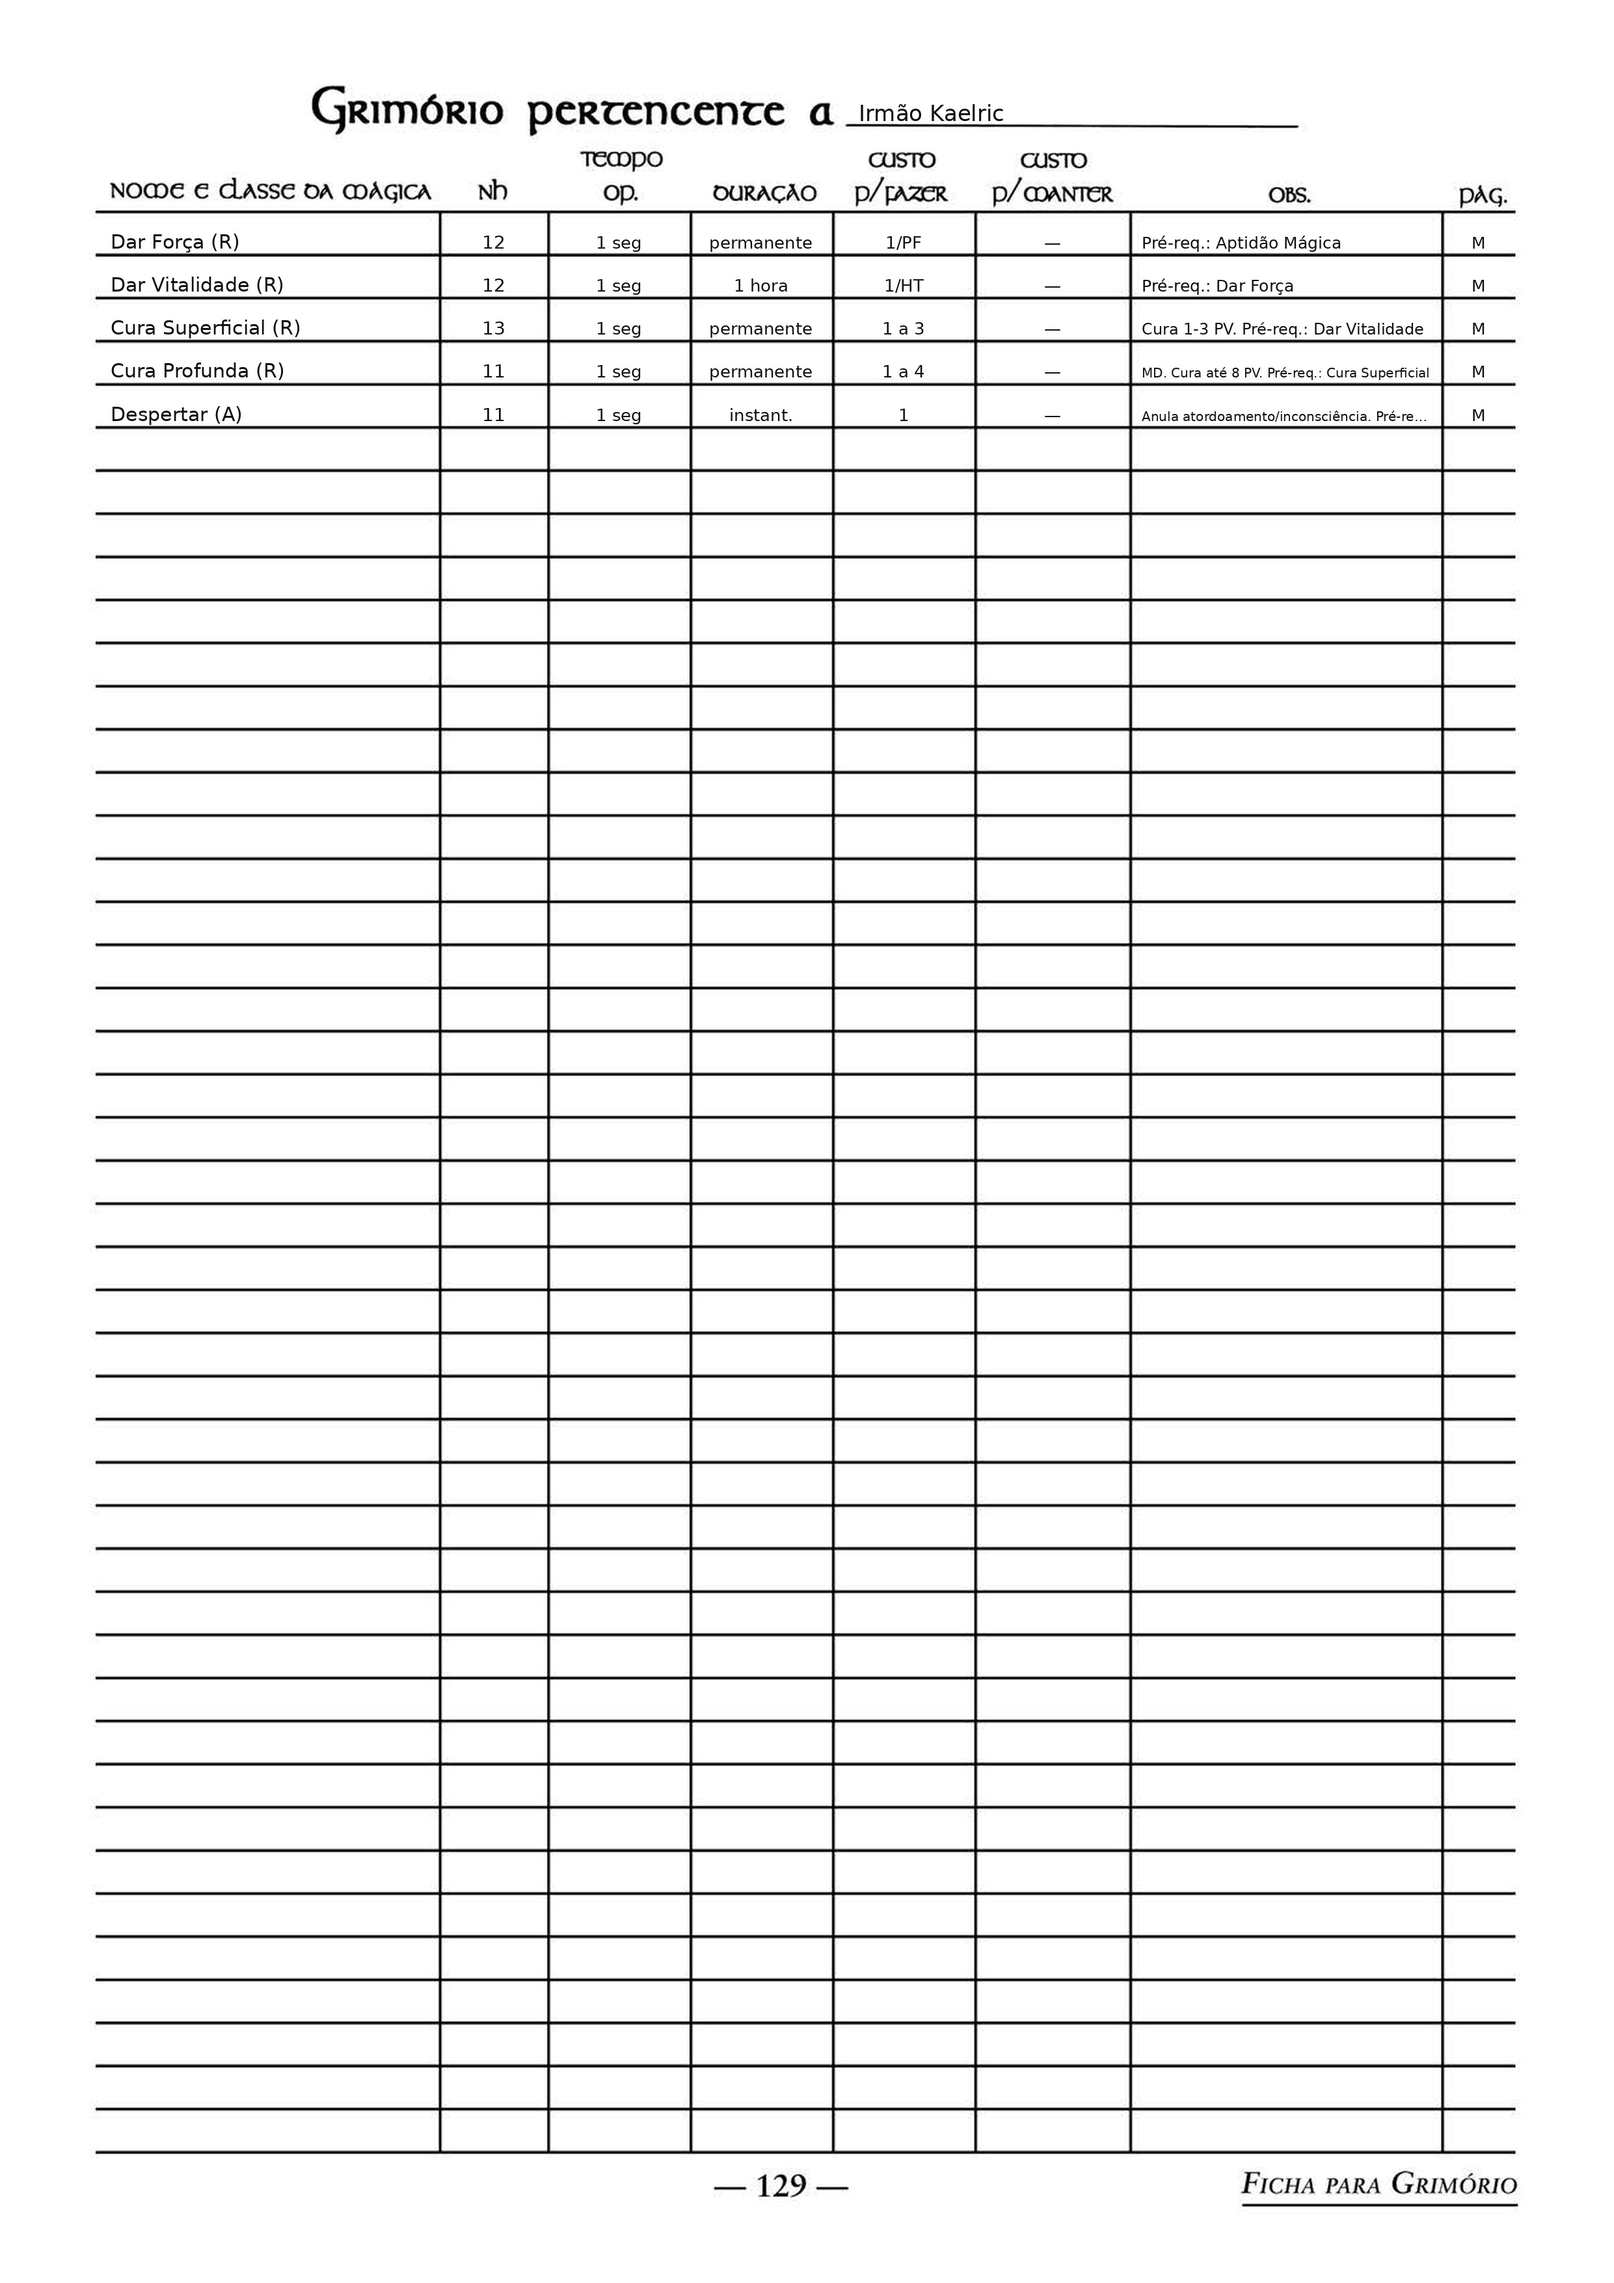
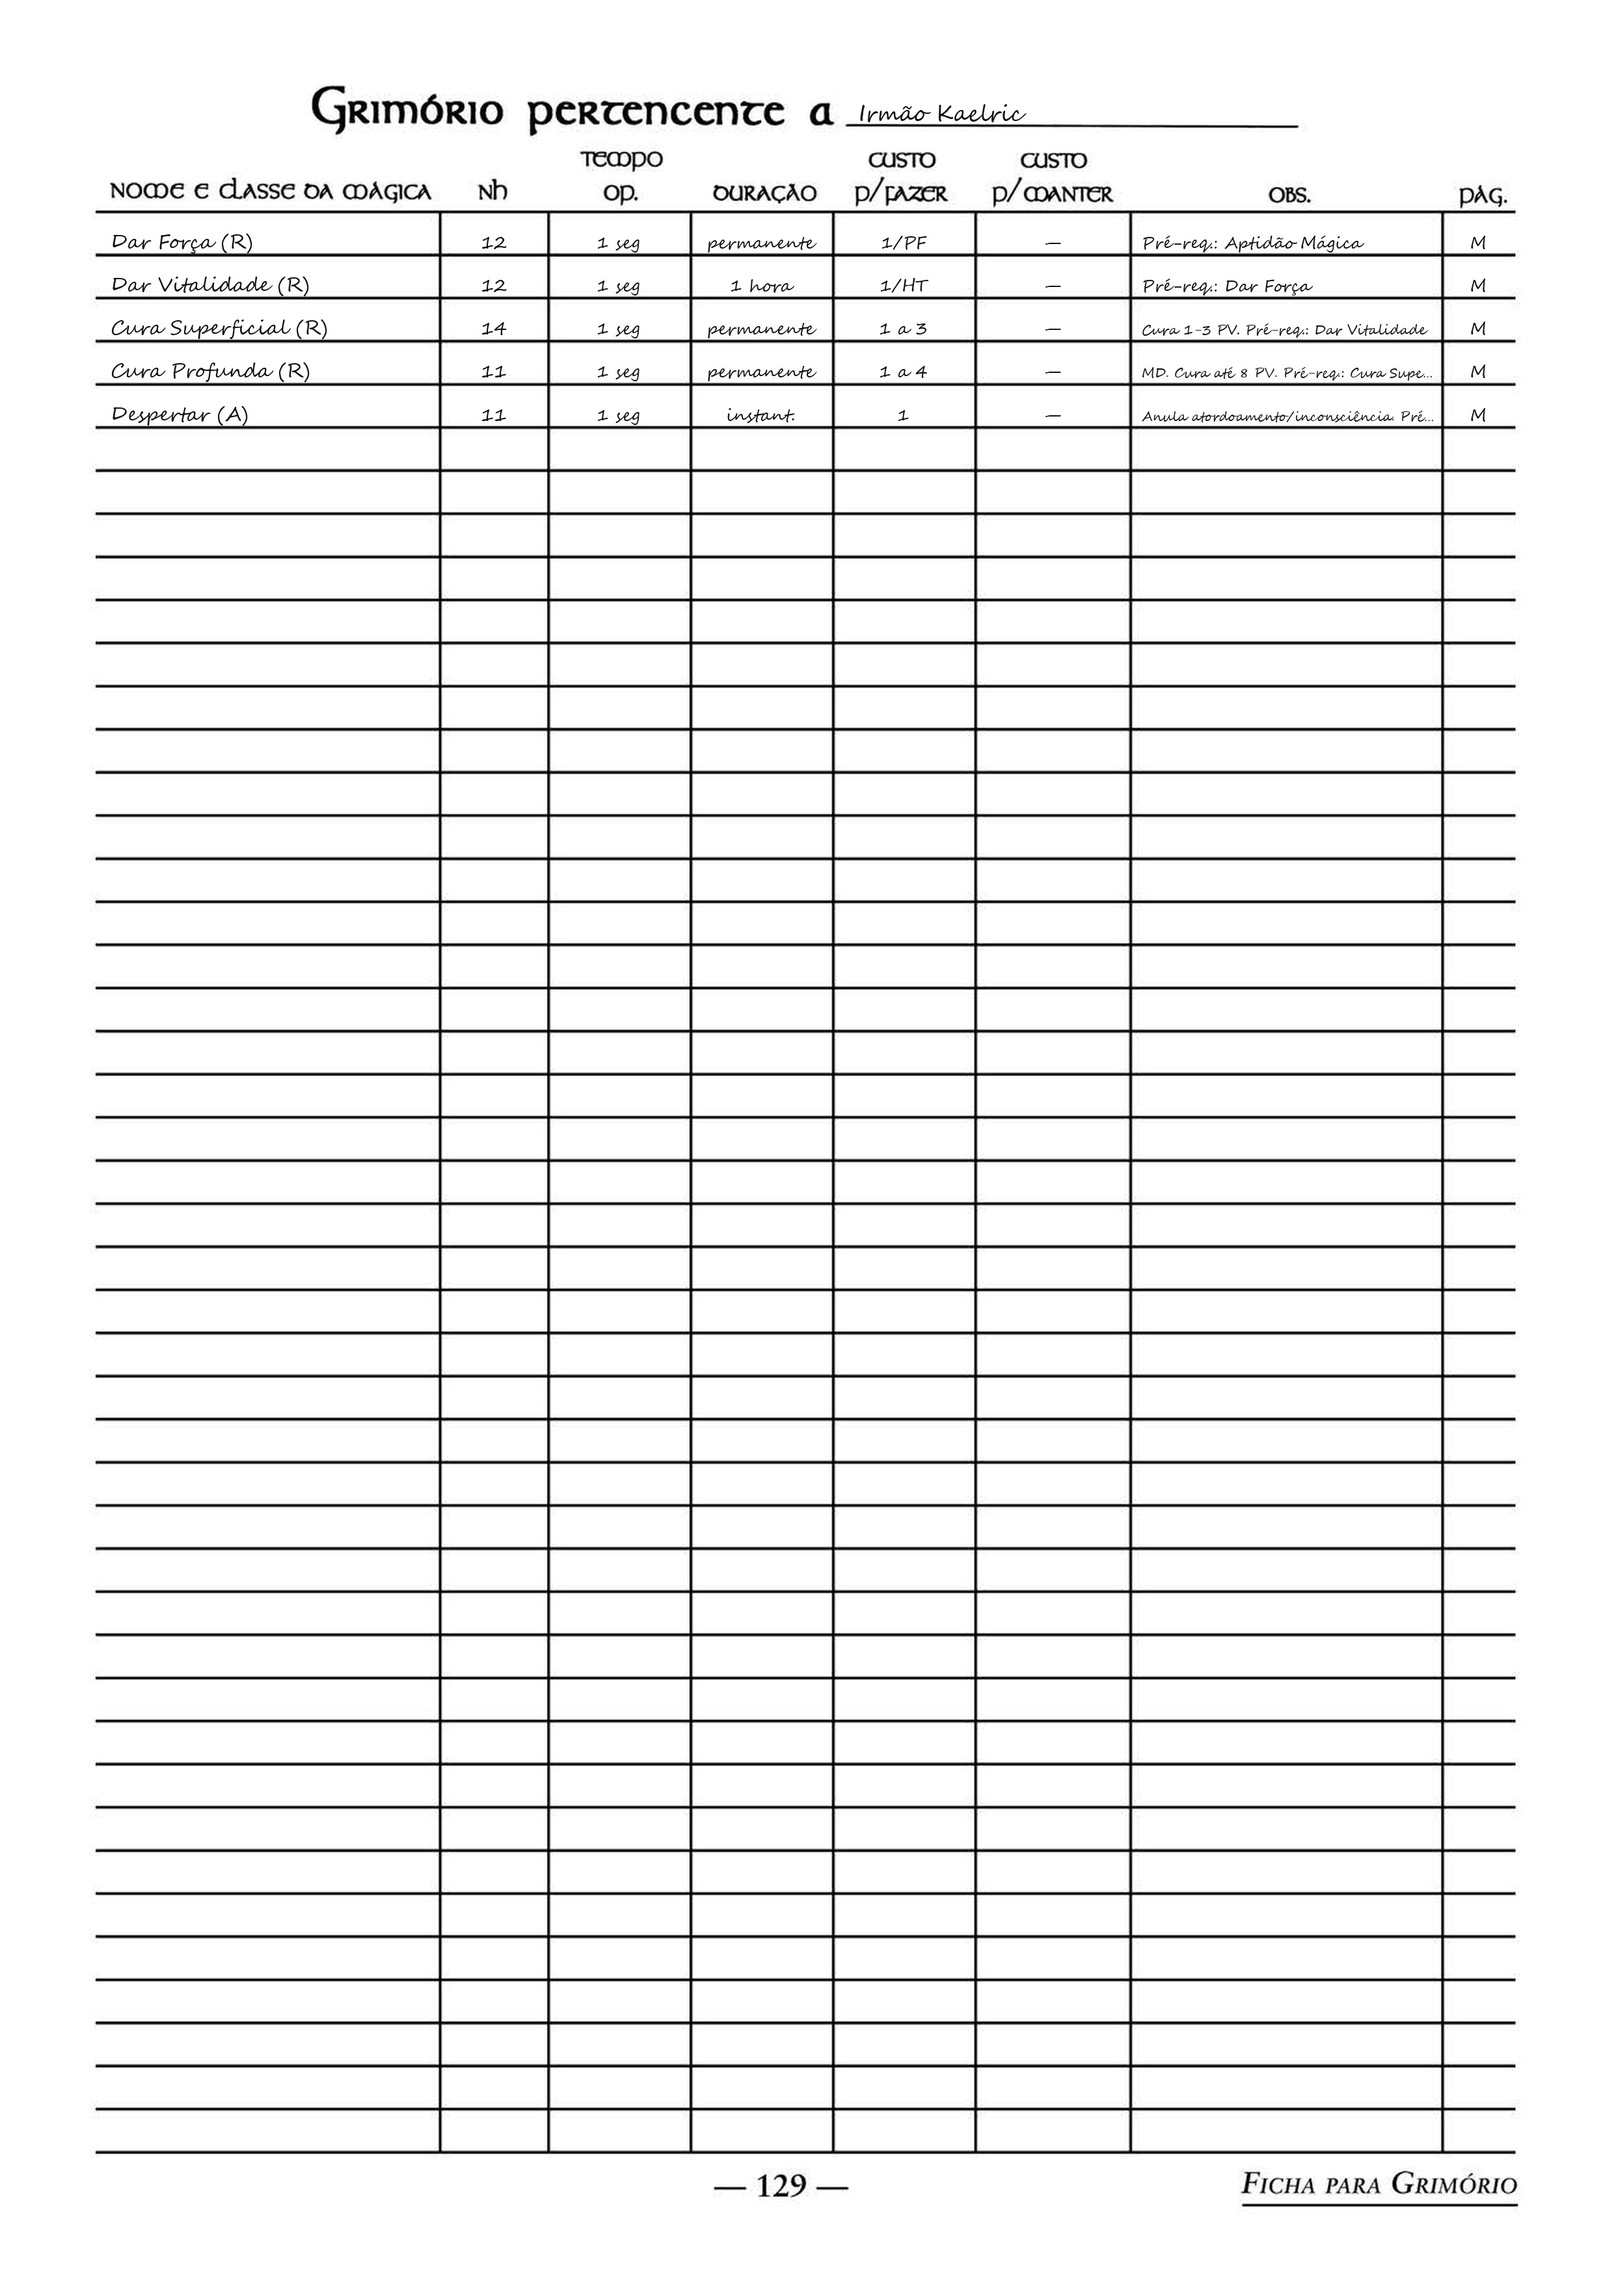
personagens: kaelric — 20 pontos gastos, DX 13 e a ficha em 170
DX 12 → 13 (10), Cura Superficial 13 → 14 (2) e Primeiros Socorros 13 → 14 (2)
nos primeiros 14 pontos; Escudo 15 → 16 (4) e Cavalgar 13 → 14 (2) nos 6 que
sobravam. Sem sobra: 170 de 170. Bloqueio impresso em 8, e montado a perna coxa
ainda dá -1 em Cavalgar, então esse teste sai em 13. Grimório regerado com os
13 pontos em milagres.

diff --git a/personagens/irmao-kaelric/personagem.md b/personagens/irmao-kaelric/personagem.md
@@ -1,6 +1,6 @@
 # Irmão Kaelric
 
-**Humano · Templário (base: Cavaleiro/Palatino, *GURPS Fantasy*) · Tanque-curandeiro de maça e escudo · 150 pontos**
+**Humano · Templário (base: Cavaleiro/Palatino, *GURPS Fantasy*) · Tanque-curandeiro de maça e escudo · 170 pontos**
 
 Um jovem cavaleiro sagrado da Ordem dos Templários, que segura a linha de frente com escudo e
 maça e fecha as feridas dos companheiros com milagres de cura. Puro e devoto, mas de espírito
@@ -8,7 +8,7 @@ filósofo — começa a fazer perguntas que a Ordem prefere não ouvir.
 
 ## Aparência
 
-Um coloço de mais de dois metros (~2,10 m), com o porte de um viking cristianizado: ombros
+21 anos. Um coloço de mais de dois metros (~2,10 m), com o porte de um viking cristianizado: ombros
 largos, mãos enormes, cabelos e barba castanhos usados em tranças. Olhar sereno e já cansado de
 quem enterrou gente demais. Veste a sobreveste branca dos Templários com a cruz vermelha sobre a
 cota de malha; maça de armas à cintura, terço e frasco de óleo santo pendurados, escudo grande
@@ -30,10 +30,10 @@ o espera — mas sente que ele vem aí.
 | Atributo | Valor | Custo |
 |---|---|---|
 | ST | 13 | 30 |
-| DX | 12 | 20 |
+| DX | 13 | 30 |
 | IQ | 12 | 20 |
 | HT | 12 | 20 |
-| **Subtotal** | | **90** |
+| **Subtotal** | | **100** |
 
 ## Estatísticas Derivadas
 
@@ -42,19 +42,20 @@ o espera — mas sente que ele vem aí.
 | Fadiga | 13 |
 | Pontos de Vida | 12 |
 | Dano Básico | GDP 1D / Balanço 2D-1 |
-| Velocidade Básica | 6,0 |
+| Velocidade Básica | 6,25 |
 | Deslocamento | 5 (Carga Leve — 20,25 kg, ST 13) |
 | Defesa Passiva | 4 — só o escudo; tronco e cabeça seguem desprotegidos |
-| Esquiva / Aparar / Bloqueio | 5 / 7 / 7 |
+| Esquiva / Aparar / Bloqueio | 5 / 7 / 8 |
 | Altura / Reação | ~2,10 m · -2 geral (+1 dos combatentes quando a briga é iminente), +2 entre cristãos |
 
-**Reflexos em Combate** dá **+1 em cada defesa ativa** (efetivas **6 / 8 / 8**) e +2 na iniciativa.
+**Reflexos em Combate** dá **+1 em cada defesa ativa** (efetivas **6 / 8 / 9**) e +2 na iniciativa.
 
 **Escudo grande recuperado no capítulo 4** — um pavês da guarnição de Wallace, achado no
 castelo durante a hora comprada na muralha. Ele serve no tamanho dele sem adaptação.
 
-Os inconvenientes do escudo grande valem (MB, pág. 75): **-2 no NH efetivo com a arma** —
-Machado/Maça cai de 14 para **12** — e **-1 no Aparar**, já descontado acima. Ele também não
+Os inconvenientes do escudo grande valem enquanto o pavês estiver no braço: **-2 no NH
+efetivo com a arma** — Machado/Maça cai de 15 para **13** — e **-1 no Aparar**, que sai de 7
+para 6. Ele também não
 pode usar arma de duas mãos enquanto estiver com ele, e em combate de perto subtrai a DP 4
 de toda defesa e teste de DX a partir do segundo turno.
 
@@ -104,18 +105,18 @@ voto não rende pontos adicionais — é levado a sério mesmo assim, por exigê
 
 | Perícia | NH | Tipo | Custo |
 |---|---|---|---|
-| Machado/Maça | 14 | DX/M | 8 |
-| Escudo | 14 | DX/F | 4 |
-| Cavalgar (Cavalo) | 12 | DX/M | 2 |
+| Machado/Maça | 15 | DX/M | 8 |
+| Escudo | 16 | DX/F | 8 |
+| Cavalgar (Cavalo) | 14 | DX/M | 4 |
 | Teologia | 13 | IQ/D | 6 |
 | Filosofia | 12 | IQ/D | 4 |
 | Diagnose | 11 | IQ/D | 2 |
-| Primeiros Socorros | 13 | IQ/F | 2 |
+| Primeiros Socorros | 14 | IQ/F | 4 |
 | Trato Social | 13 | IQ/F | 2 |
 | Ânglico (nativa) | 12 | IQ/M | 0 |
 | Latim | 11 | IQ/M | 1 |
-| *Milagres (ver grimório)* | | | *11* |
-| **Subtotal (perícias + mágicas)** | | | **42** |
+| *Milagres (ver grimório)* | | | *13* |
+| **Subtotal (perícias + mágicas)** | | | **52** |
 
 ## Equipamento
 
@@ -138,9 +139,12 @@ voto não rende pontos adicionais — é levado a sério mesmo assim, por exigê
 
 | Categoria | Pontos |
 |---|---|
-| Atributos | 90 |
+| Atributos | 100 |
 | Vantagens | 63 |
 | Desvantagens | -40 |
 | Peculiaridades | -5 |
-| Perícias + Mágicas | 42 |
-| **Total** | **150** |
+| Perícias + Mágicas | 52 |
+| **Total** | **170** |
+| Orçamento | 170 |
+
+Os 20 pontos de campanha fecharam. Os primeiros 14 foram DX 12→13 (10), Cura Superficial 13→14 (2) e Primeiros Socorros 13→14 (2). Os 6 que sobravam foram para Escudo 15→16 (4) e Cavalgar 13→14 (2). Não sobra nada. O Bloqueio impresso foi para 8. Montado, a perna coxa continua dando −1 em Cavalgar até 12 PV, então esse teste sai em 13.

diff --git a/personagens/irmao-kaelric/grimorio.md b/personagens/irmao-kaelric/grimorio.md
@@ -10,15 +10,15 @@ Profunda, que é Muito Difícil.
 |---|---|---|---|---|---|---|---|---|
 | Dar Força | R | 12 | 1 seg | permanente | 1/PF | — | 2 | Devolve Fadiga. Pré-req.: Aptidão Mágica |
 | Dar Vitalidade | R | 12 | 1 seg | 1 hora | 1/HT | — | 2 | HT temporária. Pré-req.: Dar Força |
-| Cura Superficial | R | 13 | 1 seg | permanente | 1 a 3 | — | 4 | Cura 1-3 PV. Pré-req.: Dar Vitalidade |
+| Cura Superficial | R | 14 | 1 seg | permanente | 1 a 3 | — | 6 | Cura 1-3 PV. Pré-req.: Dar Vitalidade |
 | Cura Profunda (MD) | R | 11 | 1 seg | permanente | 1 a 4 | — | 2 | Cura até 8 PV. Pré-req.: Cura Superficial |
 | Despertar | A | 11 | 1 seg | instant. | 1 | — | 1 | Anula atordoamento/inconsciência. Pré-req.: Dar Vitalidade |
 
-**Total em mágicas: 11 pontos.**
+**Total em mágicas: 13 pontos.**
 
 ## Notas táticas
 
-- **Motor de cura:** a mágica-carro-chefe é **Cura Superficial** (NH 13, a mais confiável),
+- **Motor de cura:** a mágica-carro-chefe é **Cura Superficial** (NH 14, a mais confiável),
   para 1-3 PV por conjuração. Ferimentos graves pedem **Cura Profunda** (até 8 PV de uma vez,
   mas NH 11 — mais arriscada). Fora de combate, encadeie as duas no mesmo paciente sem
   penalidade.
@@ -27,7 +27,7 @@ Profunda, que é Muito Difícil.
 - **Erguer um caído:** **Despertar** tira um companheiro do atordoamento ou da inconsciência
   no meio da luta — ótimo para recolocar alguém em pé antes do golpe final do inimigo.
 - **Segurar até chegar a cura:** enquanto a mana não coopera (mana baixa/nula), Kaelric ainda
-  estanca hemorragias e estabiliza feridos com **Primeiros Socorros NH 13** — a rede de
+  estanca hemorragias e estabiliza feridos com **Primeiros Socorros NH 14** — a rede de
   segurança quando o milagre falha.
 - **O que ele *não* faz:** não neutraliza venenos nem cura doenças (a cadeia de pré-requisitos
   exige Aptidão Mágica 3, fora do alcance dele por ora) e não ressuscita. Isso é terreno para
